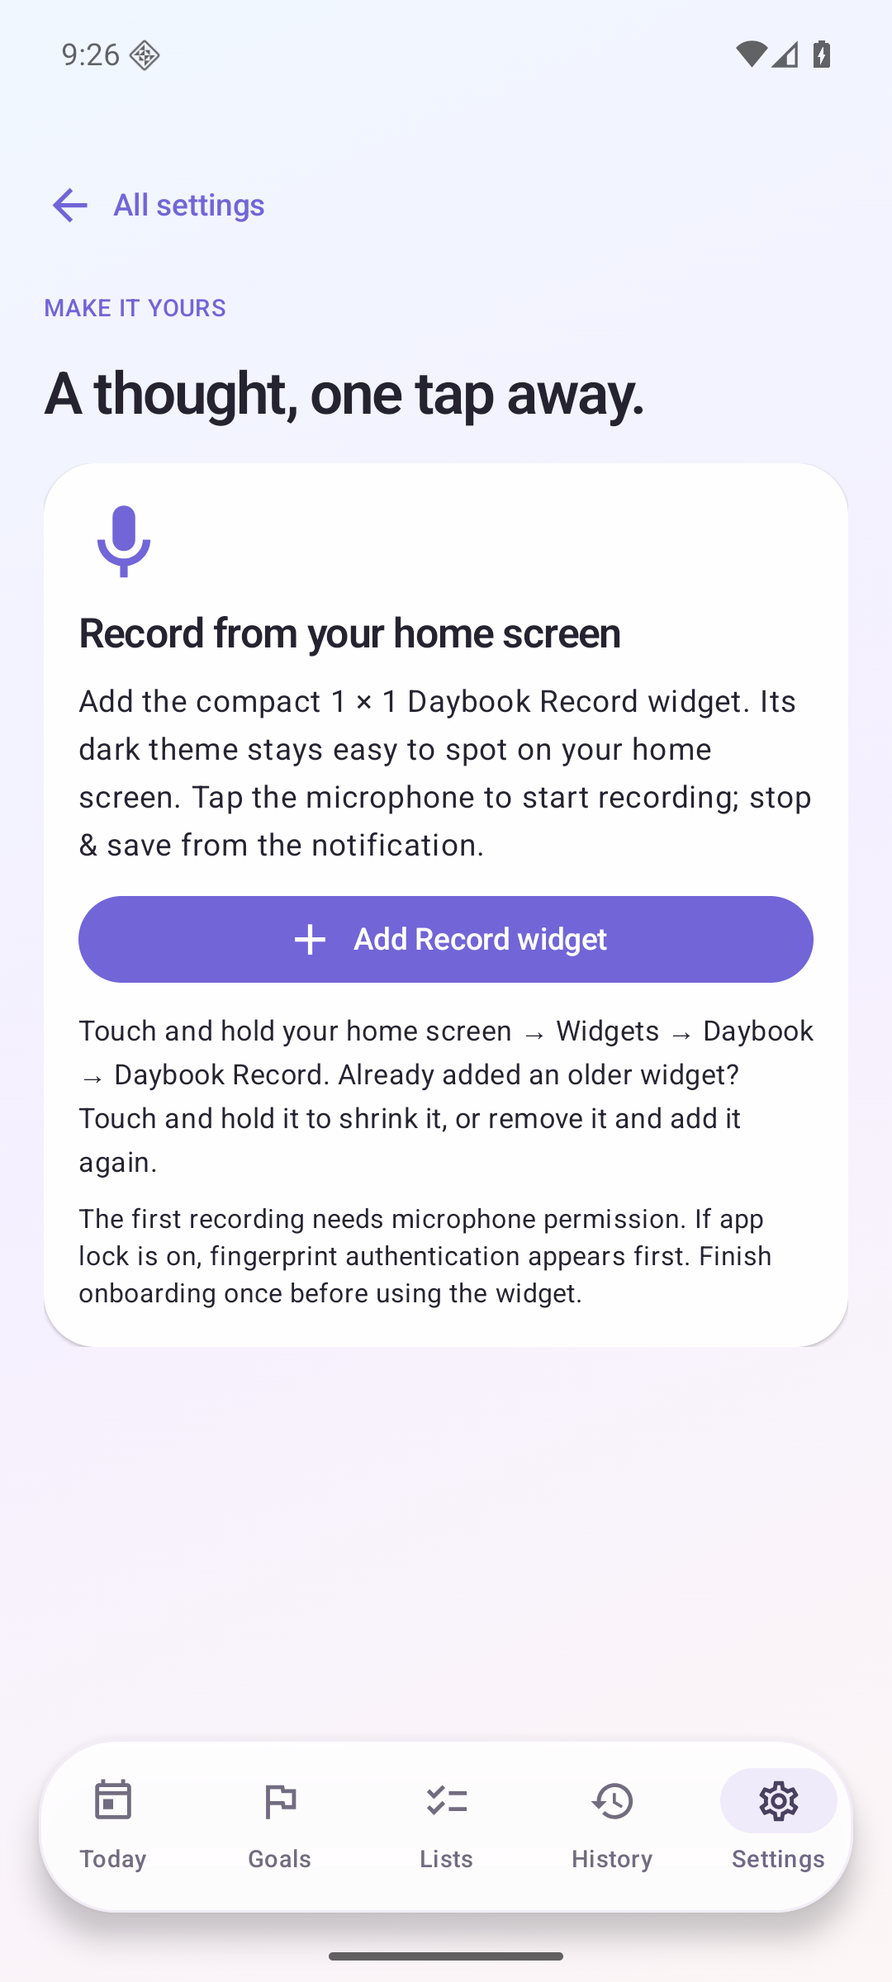
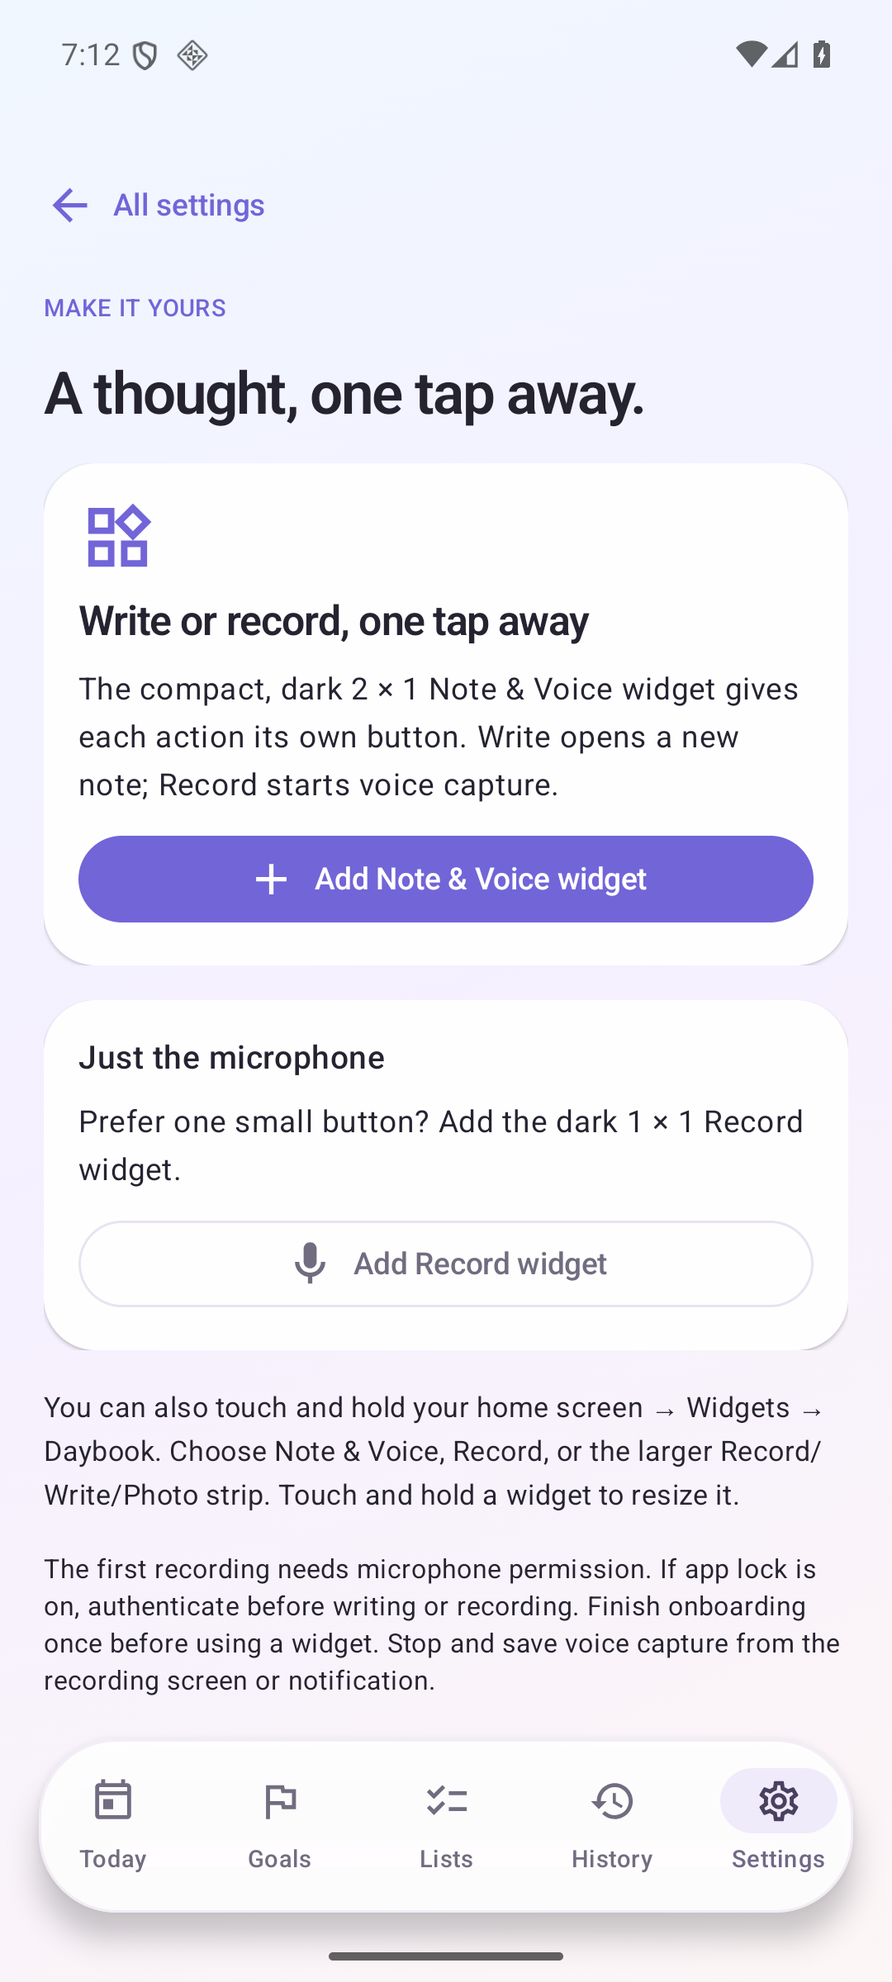
Add compact note and voice home-screen widget

diff --git a/app/src/main/java/dev/daybook/app/ui/SettingsScreens.kt b/app/src/main/java/dev/daybook/app/ui/SettingsScreens.kt
@@ -120,7 +120,7 @@ private fun clockText(value: String) = LocalTime.parse(value).format(DateTimeFor
 fun SettingsScreen(settings: Settings, hasKey: Boolean, modelReady: Boolean, modelWork: WorkInfo?, mediaBytes: Long, modelBytes: Long,
     day: String, modifier: Modifier, onSave: suspend (Settings) -> Unit, onKey: suspend (String) -> Unit, onDownload: () -> Unit,
     onDeleteModel: () -> Unit, onPauseDownload: () -> Unit, onBackup: () -> Unit, onRestore: () -> Unit,
-    onMarkdown: () -> Unit, onPermissions: () -> Unit, onBattery: () -> Unit, onAddWidget: () -> Unit,
+    onMarkdown: () -> Unit, onPermissions: () -> Unit, onBattery: () -> Unit, onAddWidget: () -> Unit, onAddNoteVoiceWidget: () -> Unit,
     localReady: Boolean, localWork: WorkInfo?, localBytes: Long, onLocalDownload: () -> Unit,
     onLocalPause: () -> Unit, onLocalDelete: suspend () -> Unit, onTools: (String) -> Unit = {}) {
     var page by rememberSaveable { mutableStateOf<String?>(null) }
@@ -166,7 +166,7 @@ fun SettingsScreen(settings: Settings, hasKey: Boolean, modelReady: Boolean, mod
                 HorizontalDivider(color = MaterialTheme.colorScheme.outlineVariant)
                 SettingsLink(Icons.Outlined.CloudDownload, "Backups & storage", "${byteText(mediaBytes)} of memories · keep a safe copy") { page = "storage" }
                 HorizontalDivider(color = MaterialTheme.colorScheme.outlineVariant)
-                SettingsLink(Icons.Outlined.Widgets, "Home-screen recording", "One tap to capture a thought") { page = "widget" }
+                SettingsLink(Icons.Outlined.Widgets, "Home-screen widgets", "Write a note or record with one tap") { page = "widget" }
             }
             SectionCard {
                 SettingsLink(Icons.Outlined.Sync, "Processing & downloads", "Task status, retries, Wi-Fi and charging choices") { onTools("processing") }
@@ -316,13 +316,20 @@ fun SettingsScreen(settings: Settings, hasKey: Boolean, modelReady: Boolean, mod
                         Text("Remove individual recordings and photos by deleting their note. Removing the model keeps your recordings; download it again to transcribe.", style = MaterialTheme.typography.bodySmall)
                     }
                 }
-                "widget" -> SectionCard {
-                    Icon(Icons.Outlined.Mic, null, Modifier.size(42.dp), tint = MaterialTheme.colorScheme.primary)
-                    Text("Record from your home screen", style = MaterialTheme.typography.titleLarge)
-                    Text("Add the compact 1 × 1 Daybook Record widget. Its dark theme stays easy to spot on your home screen. Tap the microphone to start recording; stop & save from the notification.")
-                    Button(onClick = onAddWidget, modifier = Modifier.fillMaxWidth()) { Icon(Icons.Outlined.Add, null); Spacer(Modifier.width(8.dp)); Text("Add Record widget") }
-                    Text("Touch and hold your home screen → Widgets → Daybook → Daybook Record. Already added an older widget? Touch and hold it to shrink it, or remove it and add it again.", style = MaterialTheme.typography.bodyMedium)
-                    Text("The first recording needs microphone permission. If app lock is on, fingerprint authentication appears first. Finish onboarding once before using the widget.", style = MaterialTheme.typography.bodySmall)
+                "widget" -> {
+                    SectionCard {
+                        Icon(Icons.Outlined.Widgets, null, Modifier.size(36.dp), tint = MaterialTheme.colorScheme.primary)
+                        Text("Write or record, one tap away", style = MaterialTheme.typography.titleLarge)
+                        Text("The compact, dark 2 × 1 Note & Voice widget gives each action its own button. Write opens a new note; Record starts voice capture.")
+                        Button(onClick = onAddNoteVoiceWidget, modifier = Modifier.fillMaxWidth()) { Icon(Icons.Outlined.Add, null); Spacer(Modifier.width(8.dp)); Text("Add Note & Voice widget") }
+                    }
+                    SectionCard {
+                        Text("Just the microphone", style = MaterialTheme.typography.titleMedium)
+                        Text("Prefer one small button? Add the dark 1 × 1 Record widget.")
+                        OutlinedButton(onClick = onAddWidget, modifier = Modifier.fillMaxWidth()) { Icon(Icons.Outlined.Mic, null); Spacer(Modifier.width(8.dp)); Text("Add Record widget") }
+                    }
+                    Text("You can also touch and hold your home screen → Widgets → Daybook. Choose Note & Voice, Record, or the larger Record/Write/Photo strip. Touch and hold a widget to resize it.", style = MaterialTheme.typography.bodyMedium)
+                    Text("The first recording needs microphone permission. If app lock is on, authenticate before writing or recording. Finish onboarding once before using a widget. Stop and save voice capture from the recording screen or notification.", style = MaterialTheme.typography.bodySmall)
                 }
             }
             if (saving) LinearProgressIndicator(Modifier.fillMaxWidth())

diff --git a/app/src/androidTest/java/dev/daybook/app/NoteVoiceWidgetTest.kt b/app/src/androidTest/java/dev/daybook/app/NoteVoiceWidgetTest.kt
@@ -1,0 +1,90 @@
+package dev.daybook.app
+
+import android.Manifest
+import android.appwidget.AppWidgetManager
+import android.content.ComponentName
+import android.content.Intent
+import android.view.View
+import android.widget.FrameLayout
+import androidx.compose.ui.test.*
+import androidx.compose.ui.test.junit4.createAndroidComposeRule
+import androidx.test.ext.junit.runners.AndroidJUnit4
+import androidx.test.rule.GrantPermissionRule
+import dev.daybook.app.capture.RecordingService
+import dev.daybook.app.widget.NoteVoiceWidget
+import dev.daybook.core.Settings
+import dev.daybook.core.Snapshot
+import kotlinx.coroutines.*
+import org.junit.*
+import org.junit.Assert.*
+import org.junit.runner.RunWith
+import java.time.LocalDate
+
+@RunWith(AndroidJUnit4::class)
+class NoteVoiceWidgetTest {
+    @get:Rule val permission = GrantPermissionRule.grant(Manifest.permission.RECORD_AUDIO, Manifest.permission.POST_NOTIFICATIONS)
+    @get:Rule val compose = createAndroidComposeRule<MainActivity>()
+
+    @Before fun setup() = runBlocking {
+        val graph = compose.activity.daybook
+        check(compose.activity.packageName.endsWith(".verification"))
+        graph.initialized.await()
+        withTimeout(15000) { while (RecordingService.active.value) delay(50) }
+        graph.repository.change { Snapshot() }
+        graph.preferences.save(Settings(onboarded = true, reminders = false, autoCleanup = false))
+        compose.waitUntil(10000) { compose.onAllNodesWithText("Your day, captured.").fetchSemanticsNodes().isNotEmpty() }
+    }
+
+    @After fun finish() = runBlocking {
+        if (RecordingService.active.value) {
+            compose.activity.startService(Intent(compose.activity, RecordingService::class.java).setAction(RecordingService.DISCARD))
+            withTimeout(15000) { while (RecordingService.active.value) delay(50) }
+        }
+    }
+
+    private fun widget(): View {
+        lateinit var view: View
+        compose.runOnUiThread {
+            view = NoteVoiceWidget.views(compose.activity, 802).apply(compose.activity, FrameLayout(compose.activity))
+        }
+        return view
+    }
+
+    @Test fun writeButtonOpensEditorAndSavesTodaysNoteWithoutRecording() {
+        val context = compose.activity
+        val provider = AppWidgetManager.getInstance(context).installedProviders.first {
+            it.provider == ComponentName(context, NoteVoiceWidget::class.java)
+        }
+        assertEquals(2, provider.targetCellWidth)
+        assertEquals(1, provider.targetCellHeight)
+        val view = widget()
+        compose.runOnUiThread { assertTrue(view.findViewById<View>(R.id.note_voice_write).performClick()) }
+        compose.onNodeWithText("Keep a moment").assertIsDisplayed()
+        compose.onNodeWithText("What is on your mind?").performTextInput("A quick note from the home screen.")
+        compose.onNodeWithText("Save note").performClick()
+        compose.waitUntil(10000) {
+            context.daybook.state.value.entries.any {
+                it.text == "A quick note from the home screen." && it.day == LocalDate.now().toString()
+            }
+        }
+        assertFalse(RecordingService.active.value)
+        assertTrue(context.daybook.state.value.entries.none { it.kind == "voice" })
+    }
+
+    @Test fun recordButtonStartsVoiceAndAnotherTapKeepsTheSameRecording() {
+        val view = widget()
+        compose.runOnUiThread { assertTrue(view.findViewById<View>(R.id.note_voice_record).performClick()) }
+        compose.waitUntil(10000) { RecordingService.active.value && RecordingService.session.value.entryId.isNotBlank() }
+        compose.onNodeWithText("LIVE TRANSCRIPT").assertIsDisplayed()
+        val entryId = RecordingService.session.value.entryId
+        compose.runOnUiThread { view.findViewById<View>(R.id.note_voice_record).performClick() }
+        compose.waitForIdle()
+        assertEquals(entryId, RecordingService.session.value.entryId)
+        assertEquals(1, compose.activity.daybook.state.value.entries.count { it.kind == "voice" })
+        compose.onNodeWithText("Keep a moment").assertDoesNotExist()
+        compose.onNode(hasText("Discard", substring = false) and hasAnyAncestor(isDialog())).performClick()
+        compose.onNodeWithText("Discard recording", substring = false).performClick()
+        compose.waitUntil(15000) { !RecordingService.active.value && RecordingService.session.value.phase == "discarded" }
+        compose.waitUntil(10000) { compose.activity.daybook.state.value.entries.none { it.id == entryId } }
+    }
+}

diff --git a/app/src/androidTest/java/dev/daybook/app/CaptureAndSettingsTest.kt b/app/src/androidTest/java/dev/daybook/app/CaptureAndSettingsTest.kt
@@ -70,7 +70,8 @@ class CaptureAndSettingsTest {
         compose.onNodeWithText("Light", substring = false).performClick()
         compose.waitUntil(10000) { compose.activity.daybook.settings.value.theme == "light" }
         compose.onNodeWithText("All settings").performScrollTo().performClick()
-        compose.onNodeWithText("Home-screen recording").performScrollTo().performClick()
+        compose.onNodeWithText("Home-screen widgets").performScrollTo().performClick()
+        compose.onNodeWithText("Add Note & Voice widget").performScrollTo().assertIsDisplayed()
         compose.onNodeWithText("Add Record widget").performScrollTo().assertIsDisplayed()
     }
     @Test fun apiKeyStatusUpdatesAfterSaveAndRemoval() = runBlocking<Unit> {
@@ -82,10 +83,17 @@ class CaptureAndSettingsTest {
             compose.activity.getSystemService(android.view.inputmethod.InputMethodManager::class.java)
                 .hideSoftInputFromWindow(compose.activity.window.decorView.windowToken, 0)
         }
-        compose.onNodeWithText("Save key").performScrollTo().performClick()
+        compose.waitUntil(10000) {
+            androidx.core.view.ViewCompat.getRootWindowInsets(compose.activity.window.decorView)
+                ?.isVisible(androidx.core.view.WindowInsetsCompat.Type.ime()) != true
+        }
+        // Focused text fields can scroll while the IME closes; activate the button's accessibility action.
+        compose.onNodeWithText("Save key").performScrollTo().assertIsEnabled()
+            .performSemanticsAction(androidx.compose.ui.semantics.SemanticsActions.OnClick) { it() }
         compose.waitUntil(10000) { compose.activity.daybook.keys.hasKey() }
         compose.onNodeWithText("Your API key is saved").performScrollTo().assertIsDisplayed()
-        compose.onNodeWithText("Remove key").performScrollTo().performClick()
+        compose.onNodeWithText("Remove key").performScrollTo().assertIsEnabled()
+            .performSemanticsAction(androidx.compose.ui.semantics.SemanticsActions.OnClick) { it() }
         compose.waitUntil(10000) { !compose.activity.daybook.keys.hasKey() }
         compose.onNodeWithText("Connect your OpenAI key").performScrollTo().assertIsDisplayed()
     }

diff --git a/app/src/main/java/dev/daybook/app/ui/DaybookRoot.kt b/app/src/main/java/dev/daybook/app/ui/DaybookRoot.kt
@@ -229,6 +229,10 @@ fun DaybookRoot(graph: AppGraph, activity: MainActivity) {
                                 val manager = android.appwidget.AppWidgetManager.getInstance(activity)
                                 if (manager.isRequestPinAppWidgetSupported) manager.requestPinAppWidget(android.content.ComponentName(activity, dev.daybook.app.widget.RecordWidget::class.java), null, null)
                                 else scope.launch { snacks.showSnackbar("Touch and hold your home screen, then choose Widgets → Daybook → Daybook Record.") }
+                            }, onAddNoteVoiceWidget = {
+                                val manager = android.appwidget.AppWidgetManager.getInstance(activity)
+                                if (manager.isRequestPinAppWidgetSupported) manager.requestPinAppWidget(android.content.ComponentName(activity, dev.daybook.app.widget.NoteVoiceWidget::class.java), null, null)
+                                else scope.launch { snacks.showSnackbar("Touch and hold your home screen, then choose Widgets → Daybook → Daybook Note & Voice.") }
                             }, localReady = localReady, localWork = localInfo, localBytes = graph.localModel.usage(),
                         onLocalDownload = { graph.localModel.download() }, onLocalPause = { graph.localModel.pause() },
                         onLocalDelete = { graph.localModel.delete(); localRevision++ }, onTools = { toolsPage = it })

diff --git a/app/src/main/java/dev/daybook/app/widget/CaptureWidget.kt b/app/src/main/java/dev/daybook/app/widget/CaptureWidget.kt
@@ -52,3 +52,18 @@ class RecordWidget : AppWidgetProvider() {
         }
     }
 }
+
+/** Two independent capture shortcuts in a compact home-screen tile. */
+class NoteVoiceWidget : AppWidgetProvider() {
+    override fun onUpdate(context: Context, manager: AppWidgetManager, ids: IntArray) {
+        ids.forEach { id -> manager.updateAppWidget(id, views(context, id)) }
+    }
+
+    companion object {
+        internal fun views(context: Context, id: Int) =
+            RemoteViews(context.packageName, R.layout.note_voice_widget).apply {
+                setOnClickPendingIntent(R.id.note_voice_write, CaptureIntents.pending(context, id, "write"))
+                setOnClickPendingIntent(R.id.note_voice_record, CaptureIntents.pending(context, id, "record"))
+            }
+    }
+}

diff --git a/app/src/androidTest/java/dev/daybook/app/ScreenshotTour.kt b/app/src/androidTest/java/dev/daybook/app/ScreenshotTour.kt
@@ -100,7 +100,7 @@ class ScreenshotTour {
         compose.onNodeWithText("All settings").performScrollTo().performClick()
         compose.onNodeWithText("Privacy & lock").performScrollTo().performClick(); shot("10-privacy")
         compose.onNodeWithText("All settings").performScrollTo().performClick()
-        compose.onNodeWithText("Home-screen recording").performScrollTo().performClick(); shot("11-widget")
+        compose.onNodeWithText("Home-screen widgets").performScrollTo().performClick(); shot("11-widget")
         compose.onNodeWithText("All settings").performScrollTo().performClick()
         compose.onNodeWithText("AI reflections").performScrollTo().performClick()
         compose.onNodeWithText("On-device", substring = false).performClick()

diff --git a/README.md b/README.md
@@ -14,7 +14,7 @@ Synthetic sample journal, captured from the running Android app. The meal illust
 
 [GitHub repository](https://github.com/agentcap/daybook) contains source code only. APK/AAB files are local build artifacts and are not uploaded. Build an APK using the instructions below; paths under `releases/` refer to artifacts on the original build machine.
 
-1. Install `releases/daybook-0.5.1-beta.1.apk`, or build the APK below. This is a signed, non-debuggable build for personal installation.
+1. Install `releases/daybook-0.5.2-beta.1.apk`, or build the APK below. This is a signed, non-debuggable build for personal installation.
 2. Choose your waking hours, reminder interval, and nightly reflections time during onboarding. Grant notification permission for check-ins.
 3. Download the English speech model (141 MB) once. Recording works before the download; saved recordings can be transcribed afterwards.
 4. Create goals from Goals → New goal. Templates include gym, cooking, laundry, blogging, learning, and 3000 calories.
@@ -50,19 +50,21 @@ History offers **Journal**, **Calendar**, and **Stats** views. Select a date to 
 
 The visual style takes inspiration from [Reflection](https://www.reflection.app/): a soft lavender/blue backdrop, white rounded cards, inset journal photos, date badges, and a floating pill navigation bar. Daybook keeps its own branding and uses no Reflection assets. Compact type gives notes more room while following Android’s font-size preference. Page transitions, changing card sizes, progress indicators, list updates, and recording levels use subtle animations.
 
-Settings is a focused menu: **Reminders & rhythm**, **Voice & offline speech**, **AI reflections**, **Privacy & lock**, **Appearance**, **Backups & storage**, and **Home-screen recording**. Choose times with a time picker and an interval from a list, then tap **Save rhythm**. Privacy, theme, and AI switches save immediately; the API key and model have their own save buttons. Errors and successful saves appear on the page.
+Settings is a focused menu: **Reminders & rhythm**, **Voice & offline speech**, **AI reflections**, **Privacy & lock**, **Appearance**, **Backups & storage**, and **Home-screen widgets**. Choose times with a time picker and an interval from a list, then tap **Save rhythm**. Privacy, theme, and AI switches save immediately; the API key and model have their own save buttons. Errors and successful saves appear on the page.
 
 Enable **Settings → Privacy & lock → Fingerprint & screen lock** to show Android authentication automatically whenever you open or return to Daybook. With an enrolled fingerprint, use the sensor immediately; your device PIN/pattern/password is also available. Dismissing the prompt leaves the journal locked and allows a manual retry. Background cleanup and an existing recording continue.
 
-### Record from your home screen
+### Capture from your home screen
 
-- Open **Settings → Home-screen recording → Add Record widget**, then accept your launcher's Add prompt.
-- Or touch and hold an empty area on the home screen → **Widgets → Daybook → Daybook Record**. Record is a compact 1 × 1 dark tile. A dark 3 × 1 Record/Write/Photo strip is also available.
+- Open **Settings → Home-screen widgets → Add Note & Voice widget**, then accept your launcher's Add prompt. This dark 2 × 1 widget has separate **Write** and **Record** buttons. Write opens a new note; Record starts voice capture.
+- **Add Record widget** offers the existing compact 1 × 1 microphone tile. The larger dark 3 × 1 Record/Write/Photo strip is also available.
+- Or touch and hold an empty area on the home screen → **Widgets → Daybook → Daybook Note & Voice** (or choose either existing widget).
+- [See the actual emulator home-screen widgets](docs/screenshots/30-note-voice-widget.png).
 - Tap the microphone: Daybook opens and starts recording immediately, with no Start confirmation. If app lock is enabled, authenticate first. Grant microphone permission on the first recording and complete onboarding once.
 - Stop using **Stop & save** in the persistent recording notification or on Today. Repeated widget taps while recording do not create another recording.
 - After updating, touch and hold an existing widget to resize it, or remove/re-add it to apply the smaller default footprint. Removing a widget does not delete journal entries. Launcher cell sizes vary; [Android widget sizing](https://developer.android.com/develop/ui/views/appwidgets/layouts) describes the requested defaults.
 
-Install this APK over 0.1.0, 0.2.0, 0.3.0, 0.4.0, 0.4.1, or 0.5.0-beta.1 to retain existing notes and settings. It uses the same private signing key; no uninstall is needed.
+Install this APK over 0.1.0, 0.2.0, 0.3.0, 0.4.0, 0.4.1, 0.5.0-beta.1, or 0.5.1-beta.1 to retain existing notes and settings. It uses the same private signing key; no uninstall is needed.
 
 ## Build
 

diff --git a/docs/verification.md b/docs/verification.md
@@ -1,6 +1,25 @@
 # Verification
 
-Current release: **0.5.1-beta.1**. Earlier release results are retained below for context.
+Current release: **0.5.2-beta.1**. Earlier release results are retained below for context.
+
+## 0.5.2 Note & Voice widget
+
+Completed on 2026-10-19 in the isolated Android 16/API 36 x86-64 emulator:
+
+- Added a separate dark 2 × 1 Note & Voice widget. The existing 1 × 1 Record tile and 3 × 1 capture strip remain available. Both shortcuts use the existing authenticated, user-initiated capture flow.
+- The two new Android workflows passed: Write opens the editor and saves today's note without microphone capture; Record starts immediately and repeated taps keep one recording. Provider registration and the requested 2 × 1 footprint were checked.
+- All five affected Android workflows passed together in 13.533 seconds, including existing direct-record/recreation and Settings navigation/key-status checks. The existing key-status test uses accessibility button activation after keyboard dismissal to avoid focus/scroll pointer races. Earlier diagnostic failures remain in ignored verification/ logs.
+- Actual launcher pinning from Settings passed. Both buttons were tapped on the installed home-screen widget: Write opened the editor; Record started capture. The temporary recording was discarded. The new widget remained readable at 200% system text size, and the emulator's font setting was restored afterwards.
+- All 47 JVM tests passed (38 core, 9 app). Android lint reports 0 errors and the same 40 warnings as the previous release.
+- Verification/test APK, signed personal APK and signed AAB builds passed. APK/AAB signatures, bundletool validation, private-file exclusions, and 16 KiB ZIP/native ELF alignment passed.
+- The signed release upgraded the existing personal 0.5.1-beta.1 installation and cold-launched successfully. Screenshot 11 shows the new widget Settings page; screenshot 30 shows the actual launcher widgets.
+- No native inference, recording engine, scheduling, provider, backup, or data-format changes. Broader inference/backup checks from earlier releases were not repeated for this widget update.
+
+APK: releases/daybook-0.5.2-beta.1.apk, 67,050,096 bytes; SHA-256 db43162f1b9b579d664cd3cfcb254c73bcd0d4948890b444ca5213252397ee4e.
+
+AAB: releases/daybook-0.5.2-beta.1.aab, 27,638,897 bytes; SHA-256 a68cf39a9e823fa905c08c36b3c6a9dfb11ee841da98b7945350f001fa85fe78.
+
+Physical Galaxy/Pixel launcher, fingerprint and microphone behavior remain unverified. GitHub remains source-only; APK/AAB artifacts stay local.
 
 ## 0.5.1 recording discard and daily reflections
 
